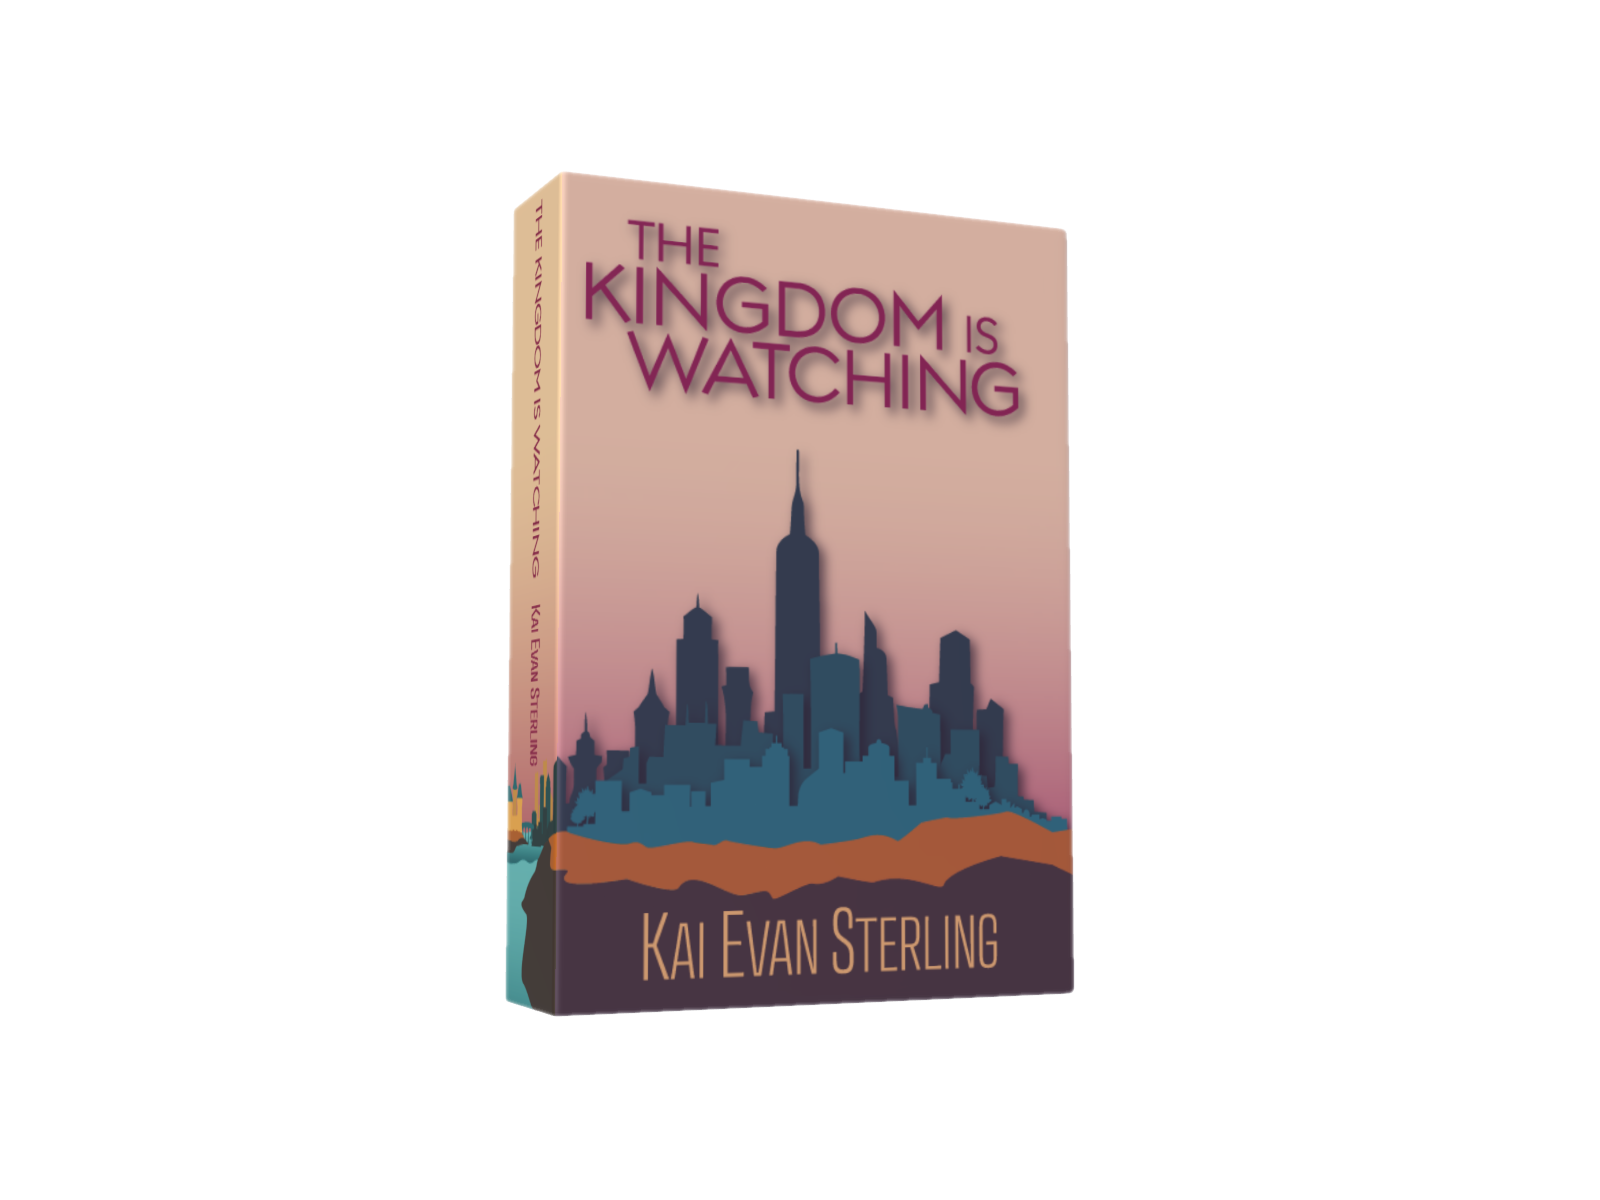
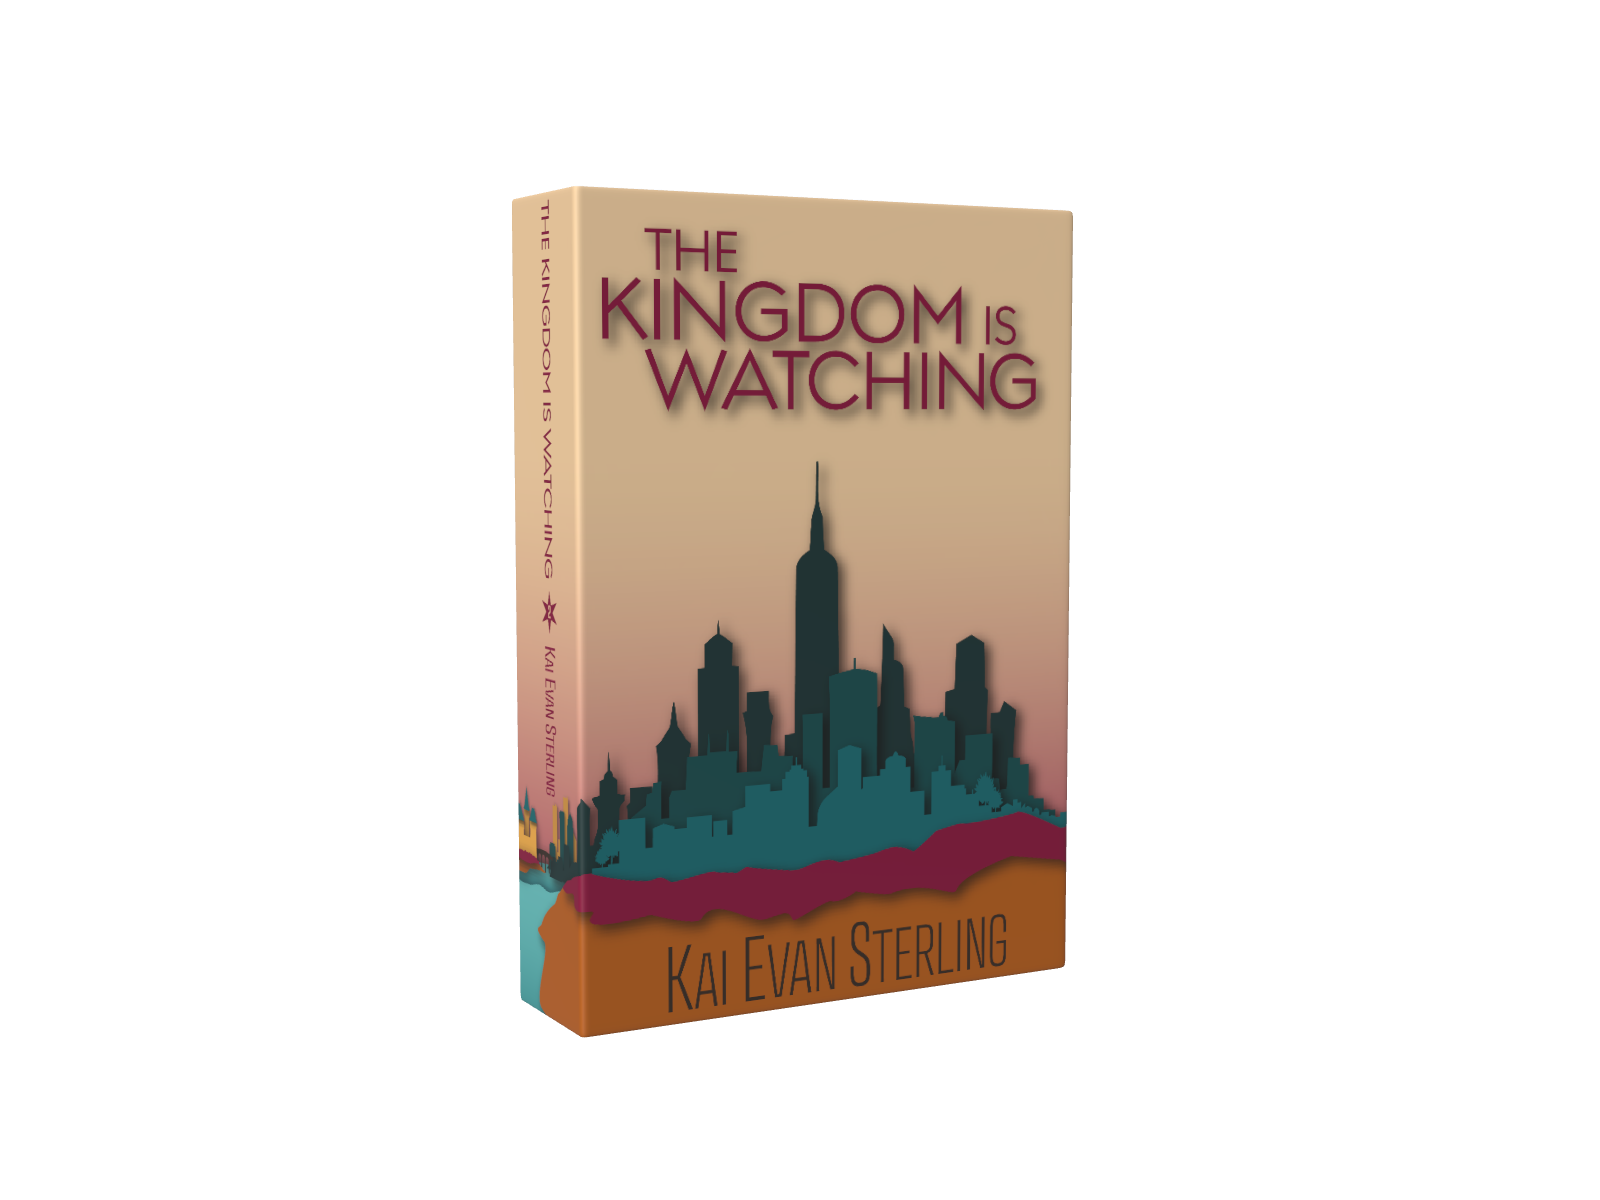
Added sequel book content

Changed region(s): [[0.3125, 0.1233, 0.6875, 0.8633]]

diff --git a/script.js b/script.js
@@ -70,6 +70,7 @@ document.getElementById('maillist-form')
       });
 });
 
+
 let ciwContents = `
   <div class="cover-art">
     <img class="cover" id="CIW-back" src="images/CIW/layer1-water.png" alt="a large lake">
@@ -97,18 +98,18 @@ let ciwContents = `
 
 let kiwContents = `
   <div class="cover-art">
-    <img class="cover" id="KIW-back" src="images/CIW/layer1-water.png" alt="a large lake">
-    <img class="cover" id="KIW-one" src="images/CIW/layer2-island-base.png" alt="a pale castle on an island">
-    <img class="cover" id="KIW-two" src="images/CIW/layer3-middle-castle.png" alt="a pale castle on an island">
-    <img class="cover" id="KIW-three" src="images/CIW/layer4-front-castle.png" alt="a pale castle on an island">
-    <img class="cover" id="KIW-front" src="images/CIW/layer5-surface-water.png" alt="a large lake">
+    <img class="cover" id="KIW-back" src="images/KIW/layer1-water.png" alt="a large lake">
+    <img class="cover" id="KIW-one" src="images/KIW/layer2-lakesurface.png" alt="a large lake">
+    <img class="cover" id="KIW-two" src="images/KIW/layer3-backcity.png" alt="a castle on an island connected by bridge to a large city of skyscrapers">
+    <img class="cover" id="KIW-three" src="images/KIW/layer4-midcity.png" alt="a large city of sky scrapers">
+    <img class="cover" id="KIW-front" src="images/KIW/layer5-frontcity.png" alt="a city of skyscrapers">
   </div>
   <section class="bookshelf">
     <div class="bookshelf-contents">
       <h1 class="book-title">The Kingdom is Watching</h1>
       <div class="synopsis">
-        <p>When Felri wakes up underground, he’s forced to dig his way out of his own grave. Unable to go back to his old life, he scrambles to make sense of why he isn’t staying dead. He soon finds himself pushed into a dangerous job as a royal guard for the heir to the throne. He has no idea what he’s doing, the heir is nothing like he expected, and a sinister plot is unfolding in the castle.</p>
-        <p>With just days before the heir’s official coronation, and a looming threat Felri’s expected to block with his own mysteriously immortal life, he quickly realizes that protecting the heir is far more than just a job to him.</p>
+        <p>Now engaged to the youngest Queen to ever rule Astuna and already world famous for his role as a guard, Felri finds himself thrust into a spotlight he never asked for, all while having to keep the engagement a secret from the whole country. With Sievert behind bars awaiting a trial for his role in the coronation disaster, Torin’s uncle is serving as King. But tensions are still running high in the castle and throughout the country.</p>
+        <p>Torin wants to go ahead with the wedding that’ll put Felri on the throne as soon as possible, but first he’ll need a crash course in all the skills a king needs to rule.</p>
       </div>
       <a href="#"><button type="button">Buy Now</button></a>
       <div class="book-selector">
@@ -121,17 +122,27 @@ let kiwContents = `
   `
 
 let mifContents = `
-  <div class="cover-art">
-    <h2>Coming Soon!</h2>
+  <div class="cover-art" id="MIF-cover">
+    <img class="cover" id="MIF-back" src="images/MIF/layer1.png" alt="clouds">
+    <img class="cover" id="MIF-one" src="images/MIF/layer2.png" alt="clouds">
+    <img class="cover" id="MIF-two" src="images/MIF/layer3.png" alt="Coming Soon">
+    <img class="cover" id="MIF-three" src="images/MIF/layer4.png" alt="clouds">
+    <img class="cover" id="MIF-front" src="images/MIF/layer5.png" alt="clouds">
   </div>
   <section class="bookshelf">
     <div class="bookshelf-contents">
       <h1 class="book-title">The Monarchy is Falling</h1>
       <div class="synopsis">
-        <p>When Felri wakes up underground, he’s forced to dig his way out of his own grave. Unable to go back to his old life, he scrambles to make sense of why he isn’t staying dead. He soon finds himself pushed into a dangerous job as a royal guard for the heir to the throne. He has no idea what he’s doing, the heir is nothing like he expected, and a sinister plot is unfolding in the castle.</p>
-        <p>With just days before the heir’s official coronation, and a looming threat Felri’s expected to block with his own mysteriously immortal life, he quickly realizes that protecting the heir is far more than just a job to him.</p>
+        <p>Felri's made it through the wedding. He thought that would be enough, but now that he's crowned King, the real challenges are only beginning.</p>
+        <p>Join the mailing list to get the latest updates on when this book will be available!</p>
+        <form id="mail-form">
+          <div id="mail-input">
+            <label for="email">Email:</label>
+            <input placeholder="enter your email here" type="email" name="email" required/>
+          </div>
+          <button type="submit" id="mail-btn">Submit</button>
+        </form>
       </div>
-      <a href="#"><button type="button">Buy Now</button></a>
       <div class="book-selector">
         <button onclick="selectBook(this.id)" class="selector" id="CIW"><img src="images/CIW/3D-book.png" alt="The hardcover book 'the Crown is Waiting'"></button>
         <button onclick="selectBook(this.id)" class="selector" id="KIW"><img src="images/KIW/3D-book.png" alt="The hardcover book 'the Kingdom is Watching'"></button>
@@ -141,9 +152,12 @@ let mifContents = `
   </section>
   `
 
+
+
+let displayed = document.getElementsByClassName("book-display");
+
 function selectBook(z){
   console.log(z);
-  let displayed = document.getElementsByClassName("book-display");
   if (z === "CIW"){
     displayed[0].innerHTML = ciwContents;
     displayed[0].id = "CIW-book"
@@ -156,3 +170,25 @@ function selectBook(z){
   }
 }
 
+if (displayed[0].id === "MIF-book"){
+  const mailbtn = document.getElementById('mail-btn');
+
+  document.getElementById('mail-form')
+    .addEventListener('submit', function(event) {
+      event.preventDefault();
+
+      mailbtn.value = 'Sending...';
+
+      const serviceID = 'default_service';
+      const templateID = 'template_wxz0all';
+
+      emailjs.sendForm(serviceID, templateID, this)
+        .then(() => {
+          mailbtn.value = 'Send Email';
+          window.open("signupthanks.html", "_self");
+        }, (err) => {
+          mailbtn.value = 'Send Email';
+          alert(JSON.stringify(err));
+        });
+    });
+  }

diff --git a/main.css b/main.css
@@ -212,7 +212,7 @@ footer h3 {
     margin-left: 1em;
 }
 
-footer label {
+label {
     color: var(--lightest);
     font-family: transducer-variable, sans-serif;
     font-weight: 400;
@@ -220,7 +220,7 @@ footer label {
     margin-left: 1em;
 }
 
-footer input {
+input {
     padding: .5em;
     margin: 0;
     display: inline-block;
@@ -230,7 +230,10 @@ footer input {
     box-sizing: border-box;
     background-color: var(--lightteal);
     border-color: var(--darkest);
-    color: var(--darkest);
+}
+
+input::placeholder {
+    color: var(--darkteal);
 }
 
 .socials {
@@ -284,7 +287,30 @@ footer input {
 }
 
 #MIF-book {
-    background: linear-gradient(180deg,var(--teal) 0%, var(--lightteal) 100%);
+    background: linear-gradient(180deg,var(--darkest) 0%, var(--darkteal) 100%);
+}
+
+#MIF-cover {
+    max-height: 85vh;
+}
+
+#MIF-cover img {
+    margin-top: -250px;
+    margin-bottom: 50px;
+    min-width: 0;
+}
+
+#mail-form {
+    display: flex;
+    flex-direction: column;
+    align-self: start;
+    margin-left: 2em;
+}
+
+#mail-input {
+    display: flex;
+    flex-direction: row;
+    align-items: baseline;
 }
 
 .cover-art {
@@ -335,6 +361,11 @@ footer input {
     direction: ltr;
 }
 
+.synopsis {
+    display: flex;
+    flex-direction: column;
+}
+
 h1 {
     font-family: regulator-nova, sans-serif;
     font-weight: 200;
@@ -367,6 +398,21 @@ button {
     margin-bottom: 1em;
     box-shadow: 2px 2px 2px var(--darkest);
     cursor: pointer;
+}
+
+#mail-form label {
+    color: var(--darkest);
+    margin-left: 0;
+    }
+
+#mail-form input {
+    background-color: var(--lightteal);
+    margin-left: 1em;
+}
+
+#mail-form button {
+    margin-top: 1em;
+    max-width: 150px;
 }
 
 .book-selector {

diff --git a/index.html b/index.html
@@ -31,7 +31,7 @@
         </nav>
     </header>
     <main>
-        <div class="book-display" id="CIW-book">
+        <div class="book-display" id="CIW">
             <div class="cover-art">
                 <img class="cover" id="CIW-back" src="images/CIW/layer1-water.png" alt="a large lake">
                 <img class="cover" id="CIW-one" src="images/CIW/layer2-island-base.png" alt="a pale castle on an island">
